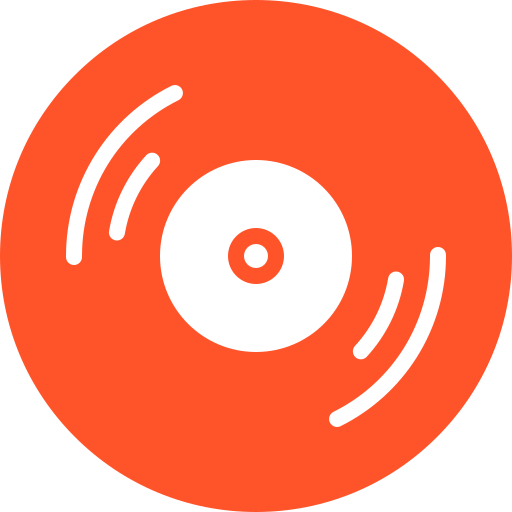
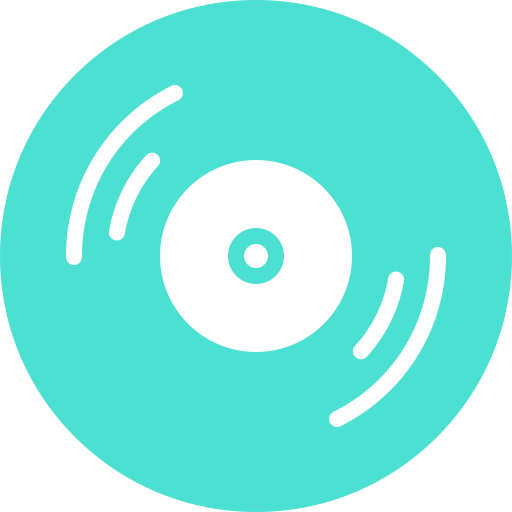
feat: add signup page

diff --git a/src/pages/auth/Signup.jsx b/src/pages/auth/Signup.jsx
@@ -1,5 +1,94 @@
+import { CoolModeCustom } from "@/components/magic/CoolMode"
+import { useEffect, useState } from "react"
+import { useForm } from "react-hook-form"
+
 export function SignUp(){
+  
+  // form
+  const { register, handleSubmit, formState, reset } = useForm()
+  
+  // constants
+  const currentYear = new Date().getFullYear()
+  const maxYear = currentYear - 12
+  const minYear = currentYear - 100
+  
+  // values
+  const [email, setEmail] = useState('')
+  const [password, setPassword] = useState('')
+  const [name, setName] = useState('')
+  const [username, setUsername] = useState('')
+  const [year, setYear] = useState(2006)
+  const [avatar, setAvatar] = useState('')
+  const [image, setImage] = useState('/vinylo.png')
+  const [error, setError] = useState('')
+  
+  // control of states
+  useEffect(()=>{
+    if(avatar!=''){
+      setImage(avatar)
+    }
+  },[avatar])
+  
+  const onSubmit = (data) => {
+    console.log(data)
+  }
+  
   return (
-    <div>Mandalore SignUp</div>
+    <div className="h-screen w-screen flex items-center justify-center">
+      <form onSubmit={handleSubmit(onSubmit)} className="relative w-11/12 sm:w-3/4 lg:w-1/3 flex flex-col items-center gap-4 py-6 px-12 rounded-xl
+          bg-gradient-to-br from-strong from-35% to-violetneon
+          before:absolute before:inset-0
+          before:rounded-xl
+          before:bg-gradient-to-br before:from-light before:to-strong
+          before:opacity-10
+          before:blur-xl
+          border-2 border-strong shadow-xl
+          before:-z-10
+          ">
+        <h1 className="text-2xl text-center font-bold text-white mb-2">Sign Up</h1>
+        <img src={image} className="rounded-full w-12 h-12 mt-4" />
+        <input type="number" placeholder="2006" value={year} 
+        {...register("year", { required: true, min: minYear, max: maxYear })}
+        onChange={(e) => setYear(parseInt(e.target.value))}
+        className="border border-violetneon text-violetneon text-lg text-center w-1/3 rounded-lg"/>
+        <input placeholder="Email" type="email" className="px-2 py-2 rounded-lg w-full focus:ring focus:ring-violetneon focus:outline-none"
+        {...register("email", { required: true, pattern: /^[a-zA-Z0-9._-]+@[a-zA-Z0-9.-]+\.[a-zA-Z]{2,4}$/ })}
+        onChange={(e) => setEmail(e.target.value)}
+        value={email}
+        />
+        <input placeholder="Password" type="password" className="px-2 py-2 rounded-lg w-full focus:ring focus:ring-violetneon focus:outline-none"
+        {...register("password", { required: true, minLength: 7 })}
+        onChange={(e) => setPassword(e.target.value)}
+        value={password}
+        />
+        <input placeholder="Name" type="text" className="px-2 py-2 rounded-lg w-full focus:ring focus:ring-violetneon focus:outline-none"
+        {...register("name", { required: true, minLength: 3 })}
+        value={name}
+        onChange={(e) => setName(e.target.value)}
+        />
+        <input placeholder="Username" type="text" className="px-2 py-2 rounded-lg w-full focus:ring focus:ring-violetneon focus:outline-none"
+        {...register("username", { required: true, minLength: 3 })}
+        value={username}
+        onChange={(e) => setUsername(e.target.value)}
+        />
+        <input placeholder="URL Avatar" type="url" 
+        className="px-2 py-2 rounded-lg w-full focus:ring focus:ring-violetneon focus:outline-none" 
+        {...register("avatar", { required: true,
+          pattern: {
+          value: /^(https?|chrome):\/\/[^\s$.?#].[^\s]*$/,
+          message: "Must be a valid URL"
+          }
+        })}
+        onChange={(e) => setAvatar(e.target.value)}
+        />
+        {formState.errors.email ? (<p className="text-white mt-2 text-center text-tiny">Email is not valid</p>) :
+        formState.errors.password ? (<p className="text-white mt-2 text-center text-tiny">Password must be at least 7 characters</p>) :
+        formState.errors.name ? (<p className="text-white mt-2 text-center text-tiny">Name must be at least 3 characters</p>) :
+        formState.errors.username ? (<p className="text-white mt-2 text-center text-tiny">Username must be at least 3 characters</p>) :
+        formState.errors.avatar ? (<p className="text-white mt-2 text-center text-tiny">Avatar is not a url valid</p>) : null}
+        {error ? <p className="text-white mt-2 text-center font-bold">{error}</p> : null} 
+        <CoolModeCustom onClick={handleSubmit(onSubmit)} content="Sign Up"/>
+      </form>
+    </div>
   )
 }

diff --git a/src/components/ui/neon-gradient-card.jsx b/src/components/ui/neon-gradient-card.jsx
@@ -1,0 +1,82 @@
+"use client";;
+import { useEffect, useRef, useState } from "react";
+
+import { cn } from "@/lib/utils";
+
+const NeonGradientCard = ({
+  className,
+  children,
+  borderSize = 2,
+  borderRadius = 20,
+  neonColors = {
+    firstColor: "#ff00aa",
+    secondColor: "#00FFF1",
+  },
+  ...props
+}) => {
+  const containerRef = useRef(null);
+  const [dimensions, setDimensions] = useState({ width: 0, height: 0 });
+
+  useEffect(() => {
+    const updateDimensions = () => {
+      if (containerRef.current) {
+        const { offsetWidth, offsetHeight } = containerRef.current;
+        setDimensions({ width: offsetWidth, height: offsetHeight });
+      }
+    };
+
+    updateDimensions();
+    window.addEventListener("resize", updateDimensions);
+
+    return () => {
+      window.removeEventListener("resize", updateDimensions);
+    };
+  }, []);
+
+  useEffect(() => {
+    if (containerRef.current) {
+      const { offsetWidth, offsetHeight } = containerRef.current;
+      setDimensions({ width: offsetWidth, height: offsetHeight });
+    }
+  }, [children]);
+
+  return (
+    (<div
+      ref={containerRef}
+      style={
+        {
+          "--border-size": `${borderSize}px`,
+          "--border-radius": `${borderRadius}px`,
+          "--neon-first-color": neonColors.firstColor,
+          "--neon-second-color": neonColors.secondColor,
+          "--card-width": `${dimensions.width}px`,
+          "--card-height": `${dimensions.height}px`,
+          "--card-content-radius": `${borderRadius - borderSize}px`,
+          "--pseudo-element-background-image": `linear-gradient(0deg, ${neonColors.firstColor}, ${neonColors.secondColor})`,
+          "--pseudo-element-width": `${dimensions.width + borderSize * 2}px`,
+          "--pseudo-element-height": `${dimensions.height + borderSize * 2}px`,
+          "--after-blur": `${dimensions.width / 3}px`
+        }
+      }
+      className={cn("relative z-10 size-full rounded-[var(--border-radius)]", className)}
+      {...props}>
+      <div
+        className={cn(
+          "relative size-full min-h-[inherit] rounded-[var(--card-content-radius)] bg-gray-100 p-6",
+          "before:absolute before:-left-[var(--border-size)] before:-top-[var(--border-size)] before:-z-10 before:block",
+          "before:h-[var(--pseudo-element-height)] before:w-[var(--pseudo-element-width)] before:rounded-[var(--border-radius)] before:content-['']",
+          "before:bg-[linear-gradient(0deg,var(--neon-first-color),var(--neon-second-color))] before:bg-[length:100%_200%]",
+          "before:animate-background-position-spin",
+          "after:absolute after:-left-[var(--border-size)] after:-top-[var(--border-size)] after:-z-10 after:block",
+          "after:h-[var(--pseudo-element-height)] after:w-[var(--pseudo-element-width)] after:rounded-[var(--border-radius)] after:blur-[var(--after-blur)] after:content-['']",
+          "after:bg-[linear-gradient(0deg,var(--neon-first-color),var(--neon-second-color))] after:bg-[length:100%_200%] after:opacity-80",
+          "after:animate-background-position-spin",
+          "dark:bg-neutral-900"
+        )}>
+        {children}
+      </div>
+    </div>)
+  );
+};
+
+export { NeonGradientCard };

diff --git a/tailwind.config.js b/tailwind.config.js
@@ -11,12 +11,12 @@ export default {
   	extend: {
   		colors: {
   			primary: {
-  				DEFAULT: '#ff542a',
+  				DEFAULT: '#4CE0D2',
   				foreground: 'hsl(var(--primary-foreground))'
   			},
-  			strong: '#fb3808',
-  			light: '#ff8c6f',
-  			lightpink: '#f1c0b3',
+  			strong: '#00afb5',
+  			light: '#9892ff',
+  			violetneon: '#5D00FF',
   			dark: '#262626',
   			background: 'hsl(var(--background))',
   			foreground: 'hsl(var(--foreground))',
@@ -59,6 +59,19 @@ export default {
   			lg: 'var(--radius)',
   			md: 'calc(var(--radius) - 2px)',
   			sm: 'calc(var(--radius) - 4px)'
+  		},
+  		animation: {
+  			'background-position-spin': 'background-position-spin 3000ms infinite alternate'
+  		},
+  		keyframes: {
+  			'background-position-spin': {
+  				'0%': {
+  					backgroundPosition: 'top center'
+  				},
+  				'100%': {
+  					backgroundPosition: 'bottom center'
+  				}
+  			}
   		}
   	}
   },

diff --git a/src/components/magic/CoolMode.jsx b/src/components/magic/CoolMode.jsx
@@ -1,14 +1,22 @@
 import { Button } from "../ui/button";
 import { CoolMode } from "../ui/cool-mode";
+import PropTypes from "prop-types";
 
-export function CoolModeCustom(onClick){
+export function CoolModeCustom({ onClick, content }){
   return (
     <div className="relative justify-center">
           <CoolMode className="py-3">
-            <Button className="bg-strong h-12 text-lg font-bold hover:bg-primary"
+            <Button className="bg-violetneon h-12 text-lg font-bold border-2 border-strong hover:bg-primary hover:text-dark"
             onClick={onClick}
-            >Get Started</Button>
+          >
+            {content}
+          </Button>
           </CoolMode>
     </div>
   )
+}
+
+CoolModeCustom.propTypes = {
+  onClick: PropTypes.func.isRequired,
+  content: PropTypes.string.isRequired
 }

diff --git a/src/components/Header.jsx b/src/components/Header.jsx
@@ -15,7 +15,7 @@ export function Header(){
         <h1 className="text-primary text-2xl">Vinylo</h1>
       </div>
       <div className="flex gap-4 px-2">
-        <button className="bg-strong text-white px-4 sm:px-8 py-2 rounded-md border-2 border-light hover:bg-primary">Sign in</button>
+        <button className="bg-strong text-white px-4 sm:px-8 py-2 rounded-md border-2 border-light hover:bg-violetneon">Sign in</button>
         <button className="bg-black text-white px-4 sm:px-8 py-2 rounded-md border-2 border-strong hover:bg-dark"
         onClick={gotoSignup}
         >Sign up</button>

diff --git a/src/components/magic/NeonCard.jsx b/src/components/magic/NeonCard.jsx
@@ -1,0 +1,11 @@
+import { NeonGradientCard } from "../ui/neon-gradient-card";
+
+export function NeonCard(content) {
+  return (
+    <NeonGradientCard className="max-w-sm items-center justify-center text-center">
+      <span className="pointer-events-none z-10 h-full whitespace-pre-wrap bg-gradient-to-br from-[#ff2975] from-35% to-[#00FFF1] bg-clip-text text-center text-6xl font-bold leading-none tracking-tighter text-transparent dark:drop-shadow-[0_5px_5px_rgba(0,0,0,0.8)]">
+        {content}
+      </span>
+    </NeonGradientCard>
+  );
+}

diff --git a/src/pages/Landing.jsx b/src/pages/Landing.jsx
@@ -33,7 +33,7 @@ export function Landing(){
         </p>
       </section>
       <div className="flex justify-center mt-8 pb-16">
-        <CoolModeCustom onClick={gotoSignup}/>
+        <CoolModeCustom onClick={gotoSignup} content='Get Started'/>
       </div>
     </div>
   )
